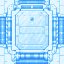
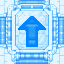
fix(belt-sprites): show flow direction on belt-part blueprint ghosts
The derived splitter/connector/crossing blueprints had no readable direction
(owner 13.png). The bake now lifts the arrow from the vanilla conveyor
blueprint (outline + enclosed fill, made opaque) and pastes it on every tile,
rotated with the part flow (crossings: right). -blueprints previews each ghost
in all 4 rotations over the corridor floor at 1x and 2x. rotateCW handles
non-square images.

Changed region(s): [[0.2812, 0.25, 0.7188, 0.75]]

diff --git a/tools/belt-sprites/main.go b/tools/belt-sprites/main.go
@@ -6,6 +6,7 @@
 //	go run .                                             // bake art/ -> ..\..\mod\assets
 //	go run . -preview out.png                            // also compose new sprites next to vanilla ones
 //	go run . -overhaul out.png                           // §21 cases in game layering + animated out.gif
+//	go run . -blueprints out.png                         // blueprint ghosts in 4 rotations over floor (vanilla arrow)
 package main
 
 import (
@@ -79,6 +80,87 @@ func blueprintOf(m *image.NRGBA) *image.NRGBA {
 		o[3] = uint8((255 - r) * 0.8)
 	}
 	return out
+}
+
+// vanillaArrow lifts the direction arrow out of the vanilla conveyor blueprint (64 px, front = up): per row, every pixel
+// from the first to the last opaque outline pixel (outline + its enclosed fill), made fully opaque so it reads over our
+// busy blueprint art. Returns a 64 px tile holding only the arrow at its vanilla position.
+func vanillaArrow(game string) *image.NRGBA {
+	bp := load(filepath.Join(game, "Data", "ships", "terran", "conveyor", "blueprints.png"))
+	out := image.NewNRGBA(bp.Rect)
+	for y := range bp.Rect.Dy() {
+		x0, x1 := -1, -1
+		for x := range bp.Rect.Dx() {
+			if bp.NRGBAAt(x, y).A > 200 {
+				if x0 < 0 {
+					x0 = x
+				}
+				x1 = x
+			}
+		}
+		for x := x0; x >= 0 && x <= x1; x++ {
+			c := bp.NRGBAAt(x, y)
+			c.A = 255
+			out.SetNRGBA(x, y, c)
+		}
+	}
+	return out
+}
+
+// markBlueprint pastes the vanilla arrow onto each tile of a blueprint (rot = clockwise quarter turns of the flow).
+func markBlueprint(bp, arrow *image.NRGBA, rot int) *image.NRGBA {
+	for ; rot > 0; rot-- {
+		arrow = rotateCW(arrow)
+	}
+	for ty := 0; ty < bp.Rect.Dy(); ty += 64 {
+		for tx := 0; tx < bp.Rect.Dx(); tx += 64 {
+			paste(bp, arrow, tx, ty)
+		}
+	}
+	return bp
+}
+
+// blueprints lays out every belt-part ghost (plain belt = vanilla conveyor blueprint) in all 4 rotations over a vanilla
+// corridor floor tile, row 1 at game scale (64 px/tile), row 2 at 2x.
+func blueprints(game, assets, path string) {
+	floor := load(filepath.Join(game, "Data", "ships", "terran", "corridor", "floor.png"))
+	ghosts := []*image.NRGBA{load(filepath.Join(game, "Data", "ships", "terran", "conveyor", "blueprints.png"))}
+	for _, sp := range sprites {
+		if sp.blueprint != "" {
+			ghosts = append(ghosts, load(filepath.Join(assets, sp.blueprint)))
+		}
+	}
+	const gap = 16
+	rowW := gap
+	for _, g := range ghosts {
+		rowW += 4*(max(g.Rect.Dx(), g.Rect.Dy())+gap) + gap
+	}
+	out := image.NewNRGBA(image.Rect(0, 0, 2*rowW, gap+128+gap+256+gap))
+	for i := range out.Pix {
+		out.Pix[i] = 40
+		if i%4 == 3 {
+			out.Pix[i] = 255
+		}
+	}
+	for row, scale := range []int{1, 2} {
+		x, y := gap, gap+row*(128+gap)
+		for _, g := range ghosts {
+			im := g
+			for range 4 {
+				w, h := im.Rect.Dx()*scale, im.Rect.Dy()*scale
+				for ty := 0; ty < h; ty += 64 * scale {
+					for tx := 0; tx < w; tx += 64 * scale {
+						paste(out, resize(floor, 64*scale, 64*scale), x+tx, y+ty)
+					}
+				}
+				paste(out, resize(im, w, h), x, y)
+				x += max(g.Rect.Dx(), g.Rect.Dy())*scale + gap
+				im = rotateCW(im)
+			}
+			x += gap
+		}
+	}
+	save(out, path)
 }
 
 // layers are masters baked by code below, not by the sprites loop: belt_lamp = Codex indicator glow on black.
@@ -230,11 +312,11 @@ func resize(img *image.NRGBA, w, h int) *image.NRGBA {
 	return out
 }
 
-// rotateCW turns a square image 90 degrees clockwise (top row -> right column).
+// rotateCW turns an image 90 degrees clockwise (top row -> right column; w x h -> h x w).
 func rotateCW(img *image.NRGBA) *image.NRGBA {
-	n := img.Rect.Dx()
-	out := image.NewNRGBA(image.Rect(0, 0, n, n))
-	for y := range n {
+	n := img.Rect.Dy()
+	out := image.NewNRGBA(image.Rect(0, 0, n, img.Rect.Dx()))
+	for y := range img.Rect.Dx() {
 		for x := range n {
 			out.SetNRGBA(x, y, img.NRGBAAt(img.Rect.Min.X+y, img.Rect.Min.Y+n-1-x))
 		}
@@ -609,13 +691,14 @@ func overhaulPreview(game, assets, pngPath string) {
 }
 
 func main() {
-	game := flag.String("game", `D:\Steam\steamapps\common\Cosmoteer`, "game root (preview only)")
+	game := flag.String("game", `D:\Steam\steamapps\common\Cosmoteer`, "game root (vanilla blueprint arrow, previews)")
 	artDir := flag.String("art", "art", "master directory")
 	outDir := flag.String("out", filepath.Join("..", "..", "mod", "assets"), "output directory")
 	importDir := flag.String("import", "", "raw Codex output directory to import into -art first")
 	previewPath := flag.String("preview", "", "optional preview PNG path")
 	overhaulPath := flag.String("overhaul", "", "optional §21 overhaul preview PNG path (+ animated .gif next to it)")
 	crossingsPath := flag.String("crossings", "", "optional crossings preview PNG path (belts left/right, pipe or cable above/below)")
+	blueprintsPath := flag.String("blueprints", "", "optional blueprint ghost preview PNG path (4 rotations over floor, 1x and 2x)")
 	flag.Parse()
 
 	if *importDir != "" {
@@ -630,14 +713,16 @@ func main() {
 			save(resize(raw, sp.w*masterTile, sp.h*masterTile), filepath.Join(*artDir, sp.master+".png"))
 		}
 	}
+	arrow := vanillaArrow(*game)
 	for _, sp := range sprites {
 		m := load(filepath.Join(*artDir, sp.master+".png"))
+		rot := 0
 		if strings.HasSuffix(sp.master, "_crossing") {
-			m = rotateCW(m)
+			m, rot = rotateCW(m), 1
 		}
 		save(resize(m, sp.w*64, sp.h*64), filepath.Join(*outDir, sp.file))
 		if sp.blueprint != "" {
-			save(blueprintOf(resize(m, sp.w*64, sp.h*64)), filepath.Join(*outDir, sp.blueprint))
+			save(markBlueprint(blueprintOf(resize(m, sp.w*64, sp.h*64)), arrow, rot), filepath.Join(*outDir, sp.blueprint))
 		}
 		if sp.icon != "" {
 			save(resize(m, sp.w*32, sp.h*32), filepath.Join(*outDir, sp.icon))
@@ -653,5 +738,8 @@ func main() {
 	}
 	if *crossingsPath != "" {
 		crossings(*game, *outDir, *crossingsPath)
+	}
+	if *blueprintsPath != "" {
+		blueprints(*game, *outDir, *blueprintsPath)
 	}
 }
